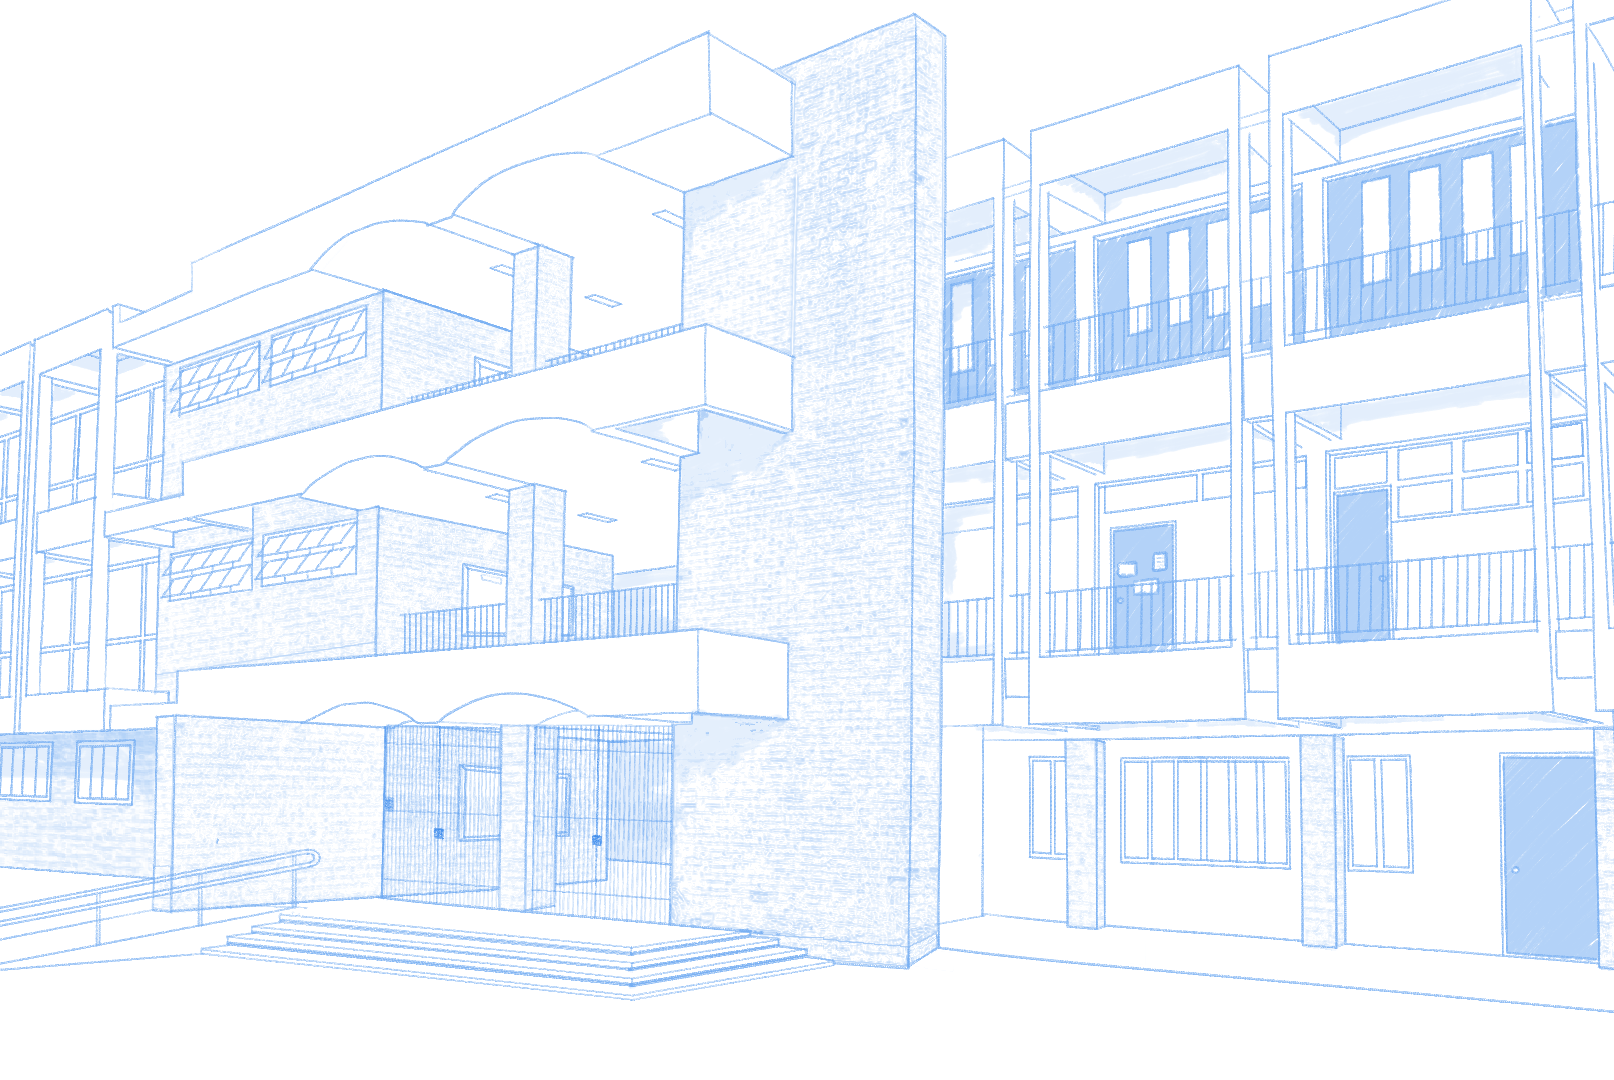
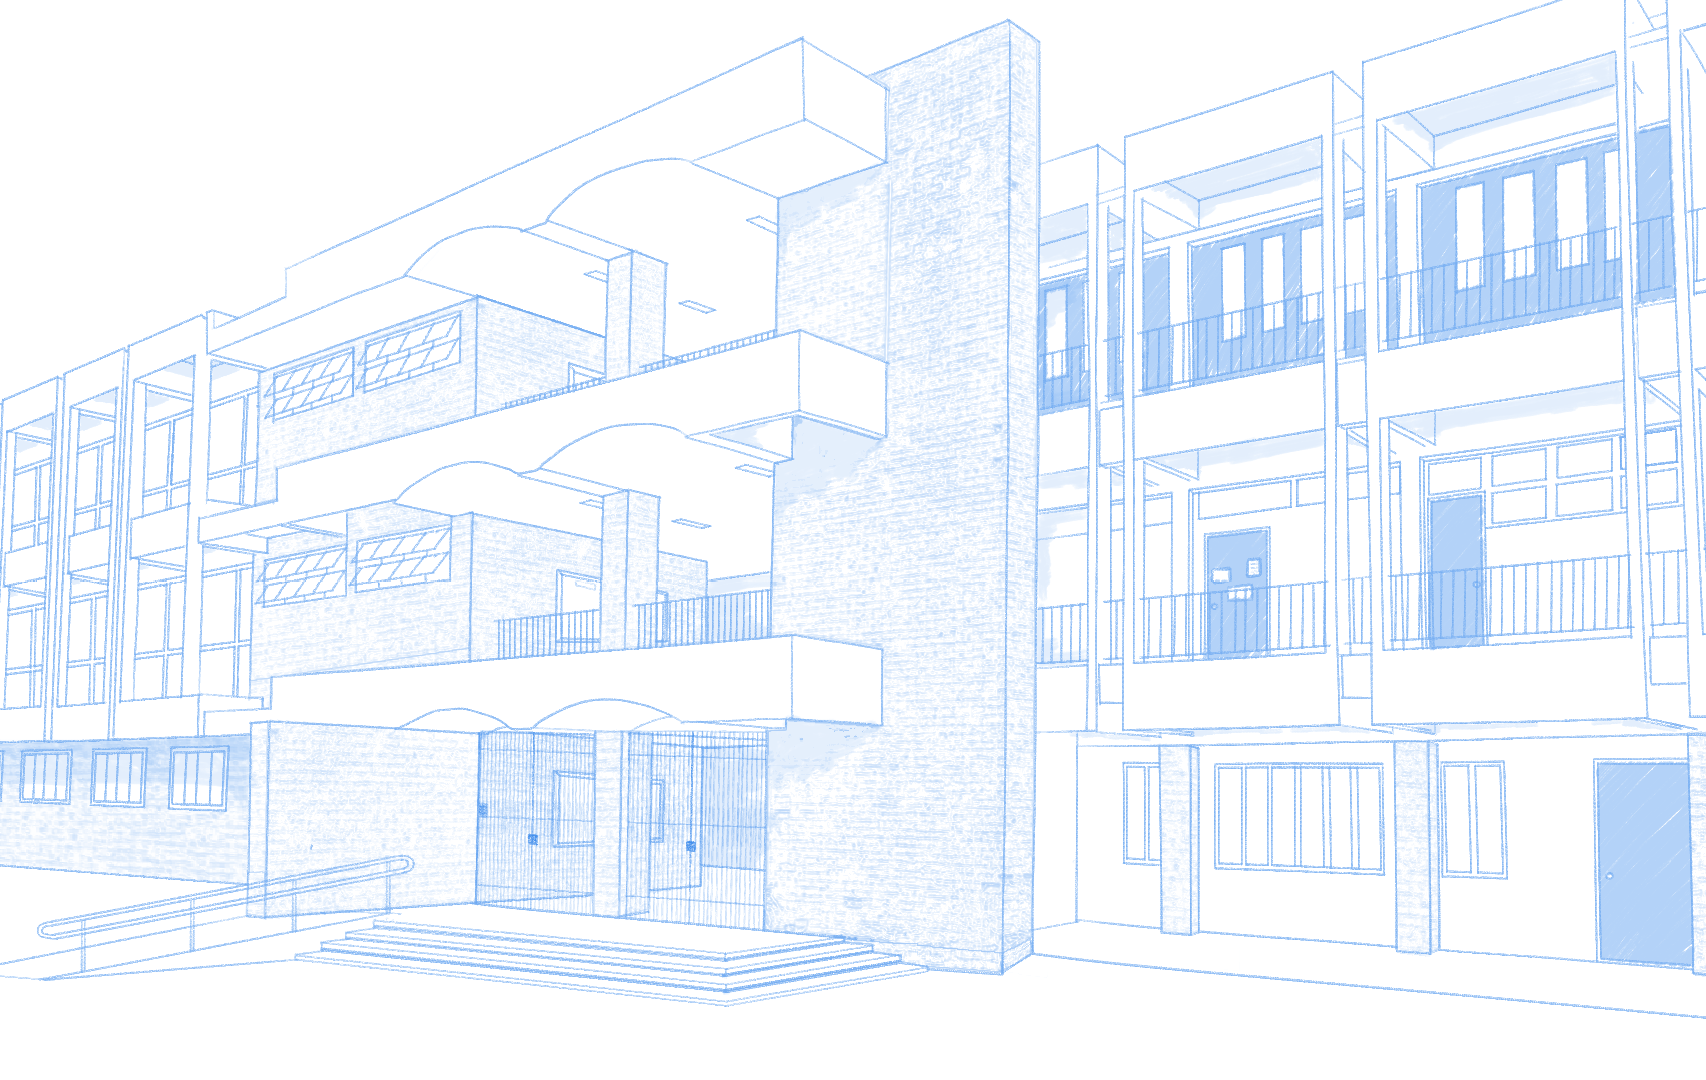
chore: change background layout for about us page

diff --git a/frontend/src/pages/AboutUs.jsx b/frontend/src/pages/AboutUs.jsx
@@ -1,10 +1,15 @@
 import React from 'react'
 import Header from '../components/header_user/Header'
 import Section from '../components/section/Section'
+import bg from '../assets/physci1.png';
 
 function AboutUs() {
     return (
-        <div>
+        <div style = {{
+            backgroundImage: `url(${bg})`,
+            backgroundPosition: 'center',
+            backgroundRepeat: 'no-repeat',
+            backgroundPositionY: '-2.5cm'}}>
             <Header></Header>
             <Section />
         </div>

diff --git a/frontend/src/pages/AdminHome.jsx b/frontend/src/pages/AdminHome.jsx
@@ -5,7 +5,10 @@ import bg from '../assets/adminBackground1.png';
 
 function AdminHome(props) {
     return (
-        <div style = {{backgroundImage: `url(${bg})`,backgroundPosition: 'center', backgroundRepeat: 'no-repeat'}}>
+        <div style = {{
+            backgroundImage: `url(${bg})`,
+            backgroundPosition: 'center',
+            backgroundRepeat: 'no-repeat'}}>
             <Header name={props.match.params.id}></Header>
             <AdminNav></AdminNav>
         </div> 

diff --git a/frontend/src/pages/GuestHome.jsx b/frontend/src/pages/GuestHome.jsx
@@ -25,7 +25,11 @@ function GuestHome() {
         }, [])
 
     return (
-        <div style = {{backgroundImage: `url(${bg})`,backgroundRepeat: 'no-repeat'}}>
+        <div style = {{
+            backgroundImage: `url(${bg})`,
+            backgroundPosition: 'center',
+            backgroundRepeat: 'no-repeat',
+            backgroundPositionY: '-0.25cm'}}>
             <Header/>
             <Search action={ ACTIONS.updateQuery }/>
             <CardRow/>

diff --git a/frontend/src/components/section/Section.css b/frontend/src/components/section/Section.css
@@ -1,8 +1,4 @@
 .Section-area {
-    background-image: url('../../assets/physci.png');
-    background-repeat: no-repeat;
-    background-size: auto;
-    background-position: bottom;
     padding-top: 5cm;
     padding-bottom: 5cm;
     text-align: center;
